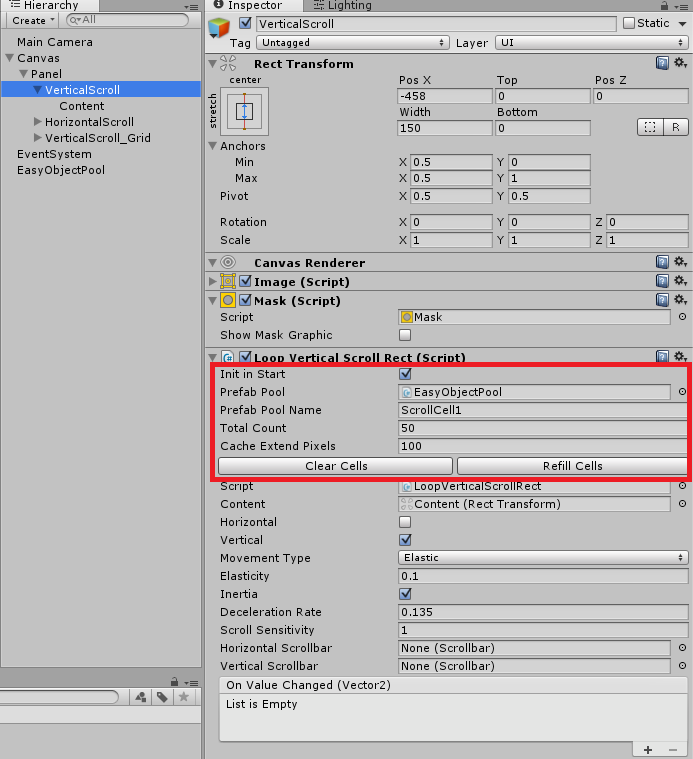
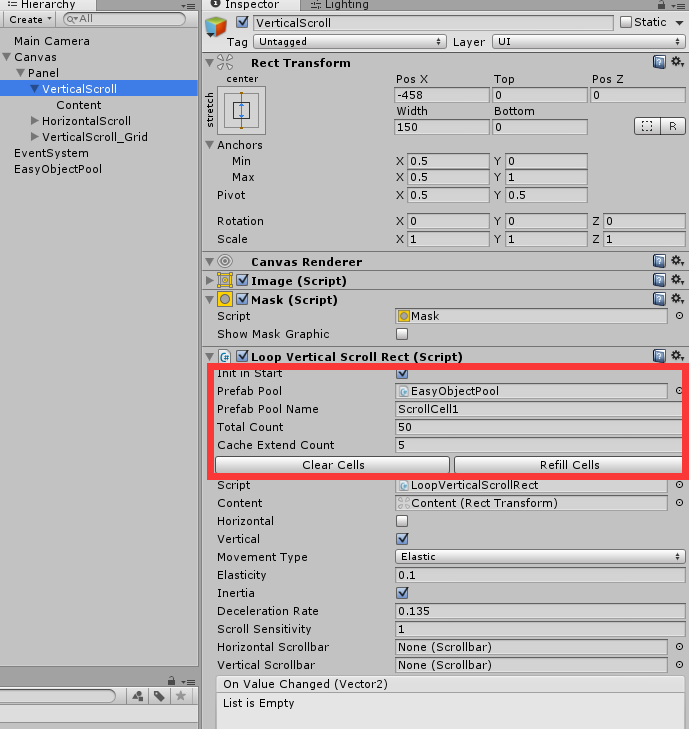
update README

Changed region(s): [[0.0, 0.0, 1.0, 1.0]]

diff --git a/README.md b/README.md
@@ -49,7 +49,7 @@ You can also remove EasyObjPool and use your pool instead.
 	- Prefab Pool: the EasyObjPool gameObject
 	- Prefab Pool Name: the corresponding pool in step 2
 	- Total Count: How many cells are available (index: 0 ~ TotalCount-1)
-	- Cache Extend Pixels: How many cells should be prepared before start or after end? If it is too small, it may bounce back when dragging. 
+	- Cache Extend Count: How many additional cells should be prepared before start or after end? If it is too small, it may bounce back when dragging. 
 ![LoopVerticalScrollRect](Images/LoopVerticalScrollRect.png)
 4. Attach `Content Size Filter` and `Vertical Layout Group` to the Content gameObject. Pay attention to the pivot.
 ![Content](Images/Content.png)
